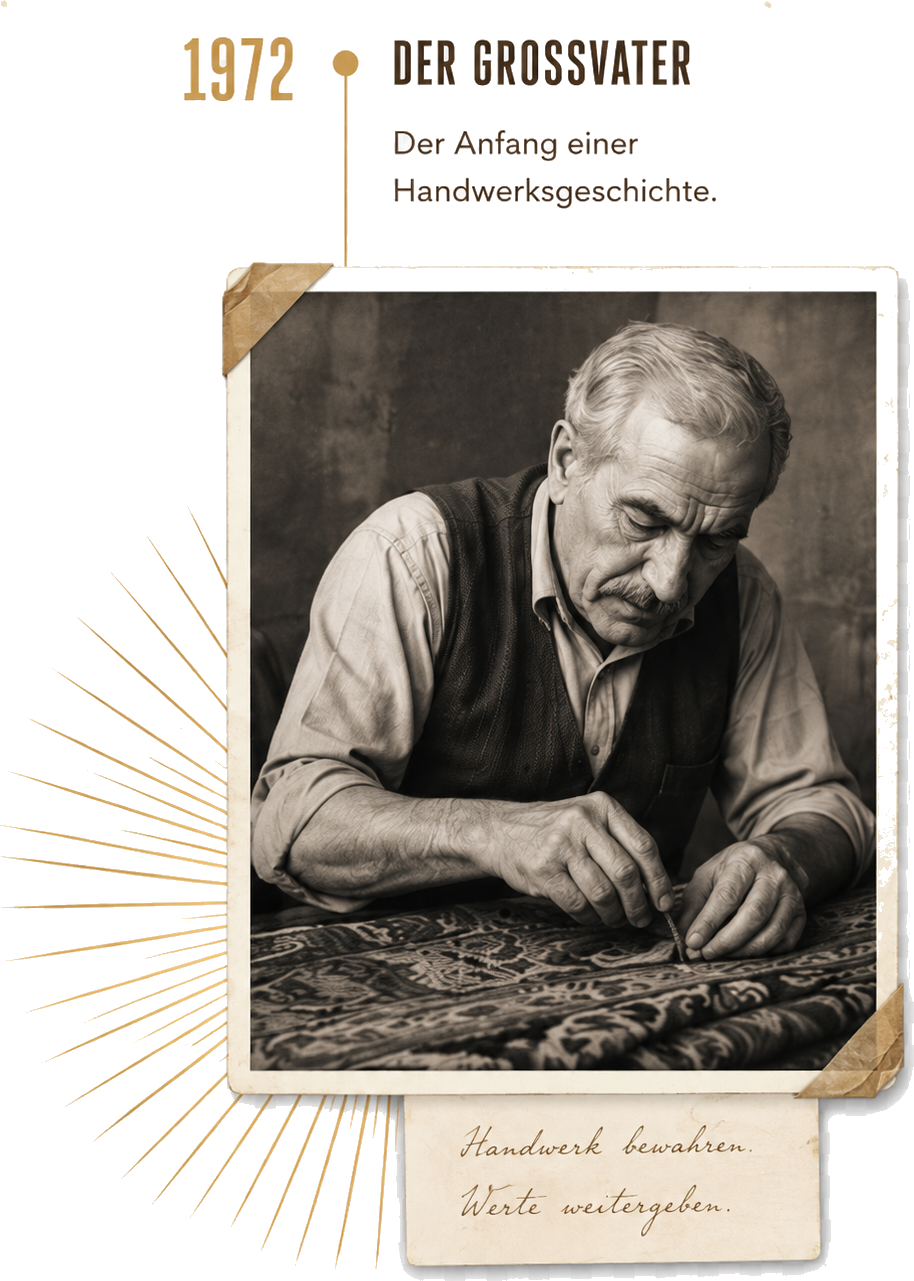
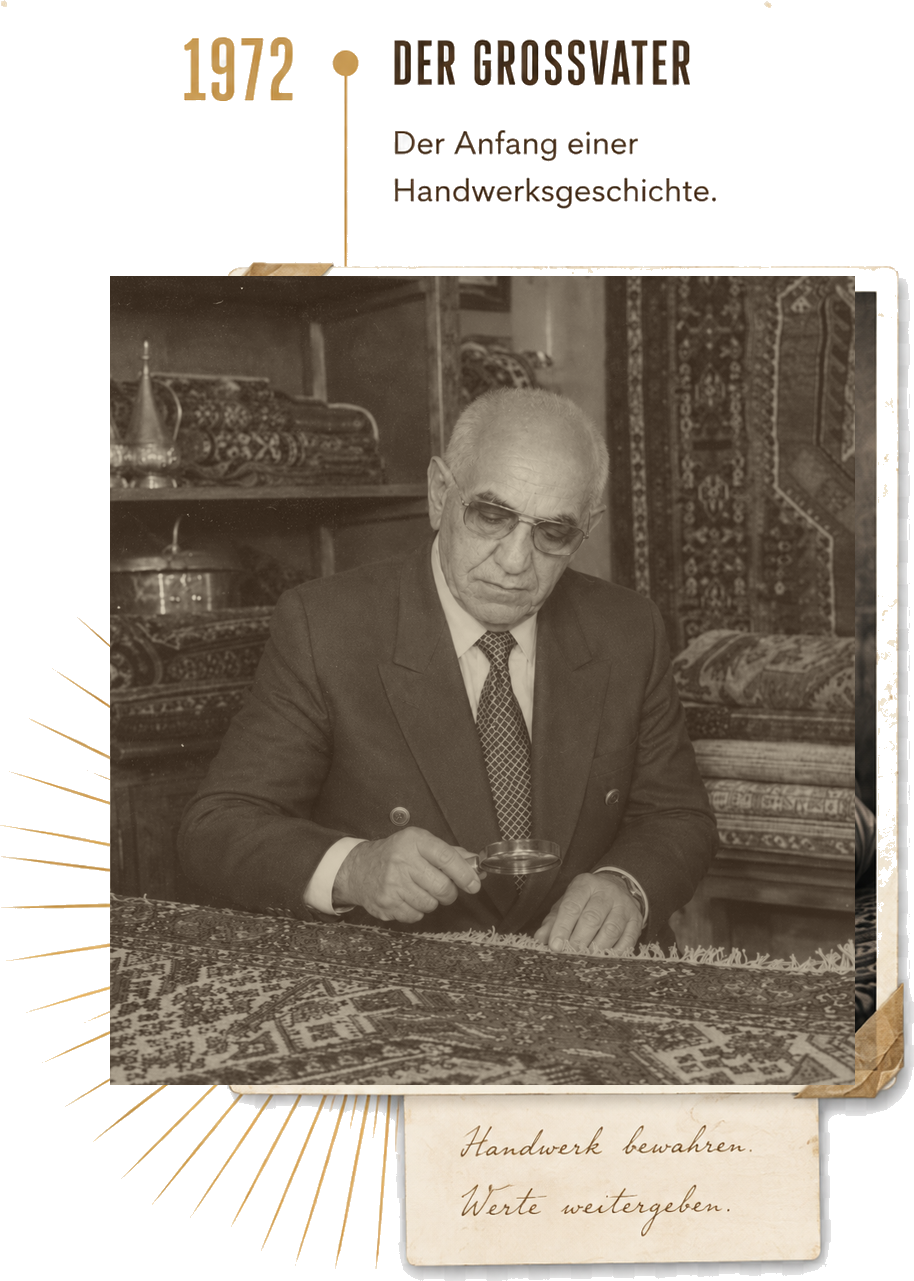
Atelier: echte Familienfotos eingesetzt (Grossvater + Fabio als Kind), vintage-getönt

diff --git a/index.html b/index.html
@@ -389,9 +389,9 @@
   </div>
   <div class="ch-scroller">
     <div class="ch-stage">
-      <img class="ch-el ch-grand" src="assets/img/heritage/grand.png" alt="1972 – Der Grossvater: der Anfang einer Handwerksgeschichte" loading="lazy" decoding="async">
+      <img class="ch-el ch-grand" src="assets/img/heritage/grand.png?v=2" alt="1972 – Der Grossvater: der Anfang einer Handwerksgeschichte" loading="lazy" decoding="async">
       <img class="ch-el ch-handwerk" src="assets/img/heritage/handwerk.png" alt="Handwerk seit Generationen – das Atelier Soltani" loading="lazy" decoding="async">
-      <img class="ch-el ch-kind" src="assets/img/heritage/kind.png" alt="Kindheit – die ersten Schritte: zwischen Teppichen aufgewachsen" loading="lazy" decoding="async">
+      <img class="ch-el ch-kind" src="assets/img/heritage/kind.png?v=2" alt="Kindheit – die ersten Schritte: zwischen Teppichen aufgewachsen" loading="lazy" decoding="async">
       <img class="ch-el ch-fabio" src="assets/img/heritage/fabio.png?v=3" alt="Fabio Soltani in seinem Atelier" loading="lazy" decoding="async">
       <div class="ch-el ch-today">
         <span class="ch-today-eb">Heute</span>
